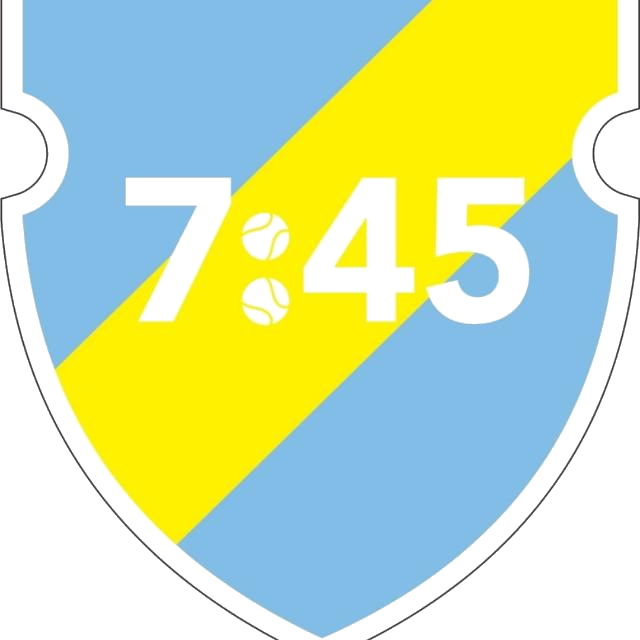
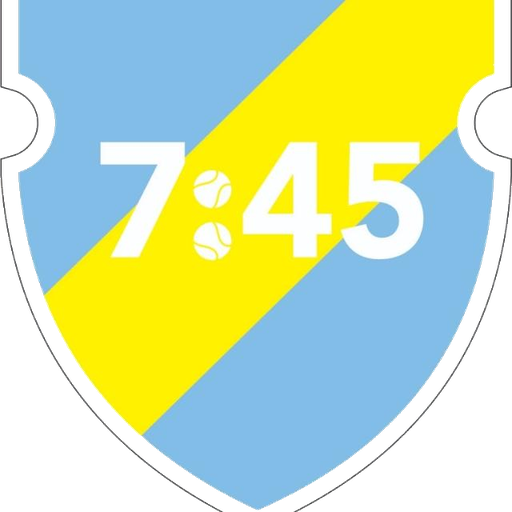
Add files via upload

diff --git a/index.html b/index.html
@@ -8,15 +8,15 @@
 <meta http-equiv="Expires" content="0">
 <title>🔥 Asado en la Caleta</title>
 <link rel="manifest" href="manifest.json">
-  <link rel="icon" type="image/png" href="icon.png?v=2">
-  <link rel="apple-touch-icon" href="icon.png?v=2">
+  <link rel="icon" type="image/png" href="icon.png?v=3">
+  <link rel="apple-touch-icon" href="icon.png?v=3">
   <meta name="mobile-web-app-capable" content="yes">
   <meta name="apple-mobile-web-app-capable" content="yes">
   <meta name="apple-mobile-web-app-title" content="🔥 Asado">
   <meta name="theme-color" content="#FF4500">
   <link href="https://fonts.googleapis.com/css2?family=Bebas+Neue&family=DM+Sans:wght@300;400;500;600;700&display=swap" rel="stylesheet">
 <script>
-  const APP_VERSION = '2.0.0';
+  const APP_VERSION = '2.0.2';
 
   // Auto-reload si hay nueva versión
   const savedVersion = localStorage.getItem('asado_app_version');
@@ -249,8 +249,8 @@ body {
 .pill{display:inline-flex;align-items:center;gap:4px;padding:3px 8px;border-radius:20px;font-size:10px;font-weight:600;cursor:pointer}
 .pill-assign{background:rgba(46,134,222,.12);border:1px solid rgba(46,134,222,.25);color:var(--blue)}
 .en,.sl,.fl,.sh,.tab,.modal-title,.pname,.tknm,.blbl { text-transform:uppercase }
-.ov-hero{background:linear-gradient(135deg,var(--fire),var(--ember));border-radius:18px;padding:20px;margin-bottom:12px;color:white;position:relative;overflow:hidden}
-.ov-hero::before{content:'🔥';position:absolute;right:-10px;top:-10px;font-size:80px;opacity:.12}
+.ov-hero{background:linear-gradient(135deg,#1a9fd4 0%,#2eb8e8 30%,#f5c518 70%,#e8b400 100%);border-radius:18px;padding:20px;margin-bottom:12px;color:white;position:relative;overflow:hidden}
+.ov-hero::before{content:'';position:absolute;right:-15px;top:-15px;width:120px;height:120px;background:rgba(255,255,255,.08);border-radius:50%}
 .ov-title{font-family:'Bebas Neue',cursive;font-size:26px;letter-spacing:2px;margin-bottom:2px}
 .ov-date{font-size:12px;opacity:.85;margin-bottom:14px}
 .ov-stats{display:grid;grid-template-columns:repeat(3,1fr);gap:8px}
@@ -262,7 +262,7 @@ body {
 .ov-row{display:flex;justify-content:space-between;align-items:center;padding:6px 0;border-bottom:1px solid var(--rim);font-size:13px}
 .ov-row:last-child{border-bottom:none}
 .ov-muted{font-size:11px;color:var(--muted);text-transform:uppercase;font-weight:600}
-.ov-btn{display:block;width:100%;padding:11px;border-radius:10px;border:none;background:linear-gradient(135deg,var(--fire),var(--ember));color:white;font-family:'Bebas Neue',cursive;font-size:16px;letter-spacing:1px;cursor:pointer;margin-bottom:8px;text-align:center}
+.ov-btn{display:block;width:100%;padding:11px;border-radius:10px;border:none;background:linear-gradient(135deg,#1a9fd4,#f5c518);color:white;font-family:'Bebas Neue',cursive;font-size:16px;letter-spacing:1px;cursor:pointer;margin-bottom:8px;text-align:center;font-weight:700;text-shadow:0 1px 2px rgba(0,0,0,.3)}
 .ov-btn-sec{display:block;width:100%;padding:11px;border-radius:10px;border:1px solid var(--rim);background:var(--ash);color:var(--text);font-family:'Bebas Neue',cursive;font-size:16px;letter-spacing:1px;cursor:pointer;margin-bottom:8px;text-align:center}
 .sh,.sl,.fl,.tab,.modal-title,.en,.blbl,.psub,.pname,.tknm,.ec-title,.ec-meta,.ov-label,.ov-row span,.admin-bar span,.abtn,.bta,.btp,.btg,.ltitle,.ov-btn,.ov-btn-sec,.ov-stat-l,.ov-muted { text-transform:uppercase }
 </style>
@@ -298,7 +298,7 @@ body {
 <div id="confirm-screen" style="display:none;min-height:100vh;background:var(--coal);flex-direction:column;align-items:center;justify-content:center;padding:24px">
   <div style="width:100%;max-width:400px">
     <div style="text-align:center;margin-bottom:20px">
-      <img src="icon.png?v=2" style="width:72px;height:72px;margin-bottom:8px;filter:drop-shadow(0 4px 12px rgba(255,69,0,.4))">
+      <img src="icon.png?v=3" style="width:88px;height:88px;margin-bottom:8px;filter:drop-shadow(0 4px 16px rgba(0,0,0,.3));border-radius:12px">
       <div style="font-family:'Bebas Neue',cursive;font-size:36px;color:var(--text);letter-spacing:2px;text-transform:uppercase" id="cs-title">Asado en la Caleta</div>
       <div style="font-size:15px;color:var(--fire);margin-top:6px;font-weight:700;letter-spacing:.5px;text-transform:uppercase" id="cs-date"></div>
       <div style="font-size:12px;color:var(--muted);margin-top:2px;text-transform:uppercase;letter-spacing:.3px" id="cs-loc"></div>